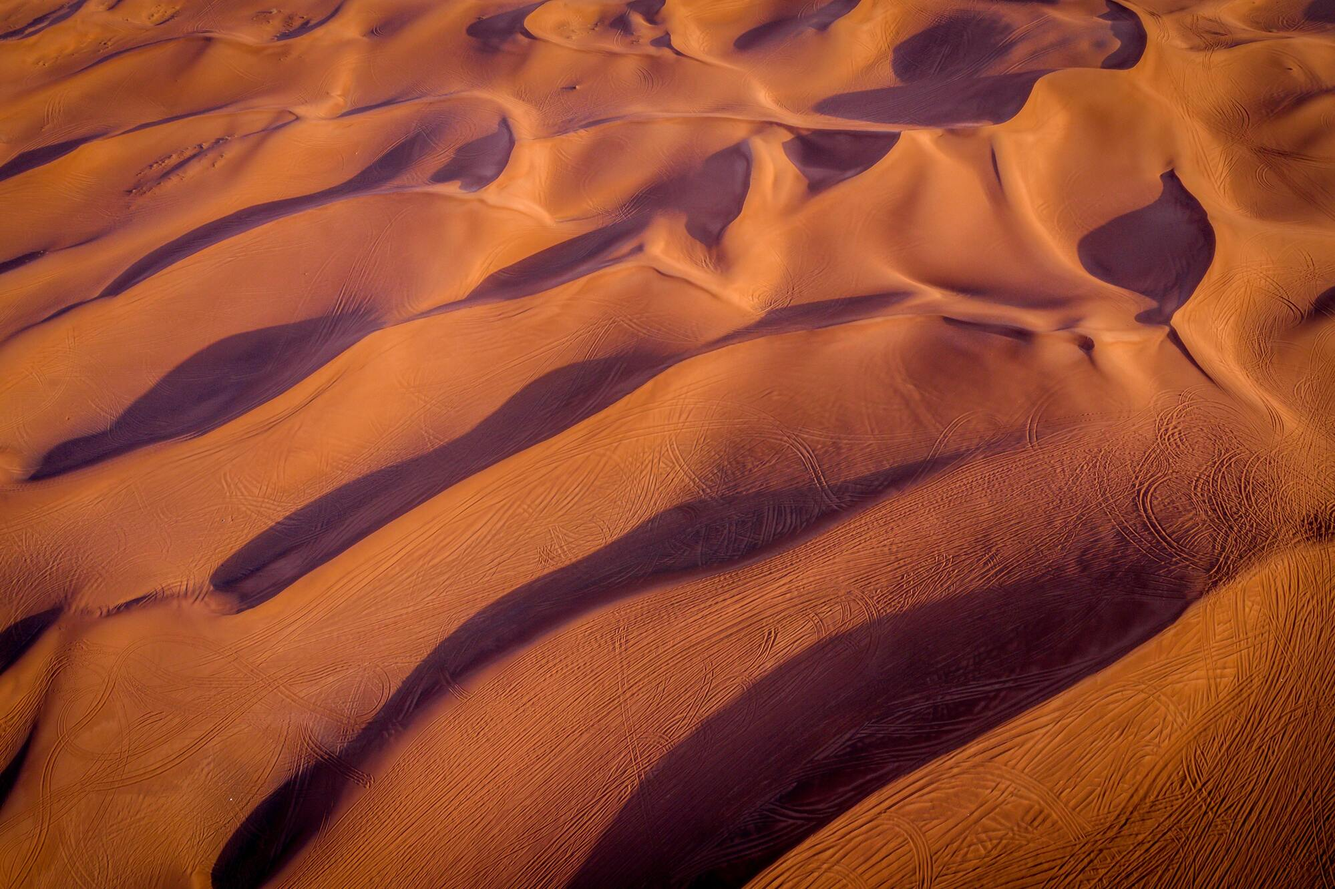
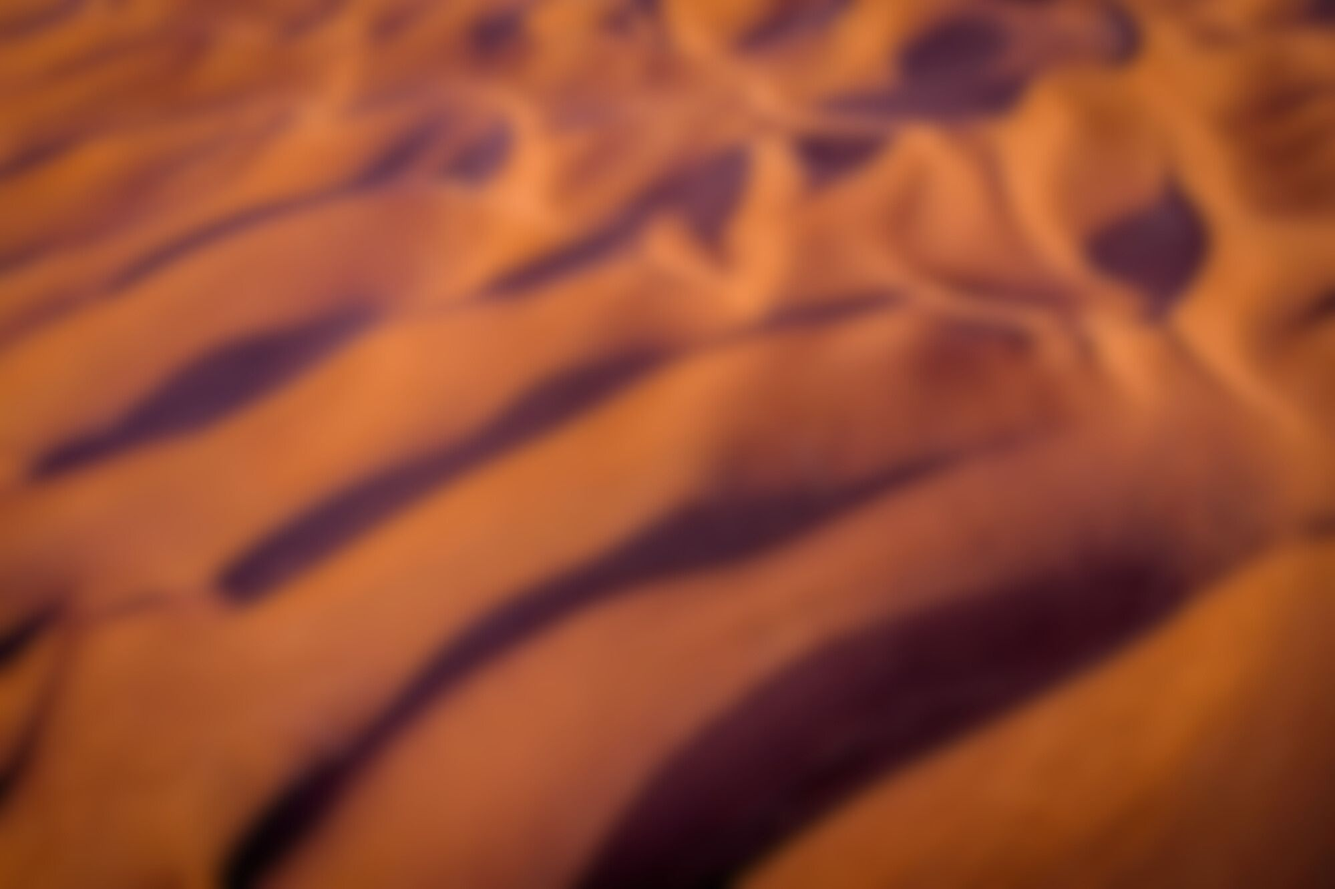
cambio fondo desert

diff --git a/Supervivencia/src/Desert/Desert.css b/Supervivencia/src/Desert/Desert.css
@@ -1,20 +1,11 @@
-#desertGameCompleteSection{
-    background-image: url('/public/Desert/DesertImages/FondoDesierto.jpg');
-    background-repeat: no-repeat;
-    background-size: cover;
-}
-
 #completeGameSectionHelp{
     width: 85%;
     bottom: 20%;
     height: 60%; 
 
-    background: rgba(165, 165, 165, 0.1);
-    backdrop-filter: blur(7.5px);
-    -webkit-backdrop-filter: blur(7.5px);
-    box-shadow: 0 8px 32px 0 rgba(0, 0, 0, 0.18);
-    border-radius: 20px;
-    border: 1px solid rgba(255, 255, 255, 0.18);
+    background-image: url('/public/Desert/DesertImages/FondoDesierto.jpg');
+    background-repeat: no-repeat;
+    background-size: cover;
 }
 
 #bagGameDisplay{
